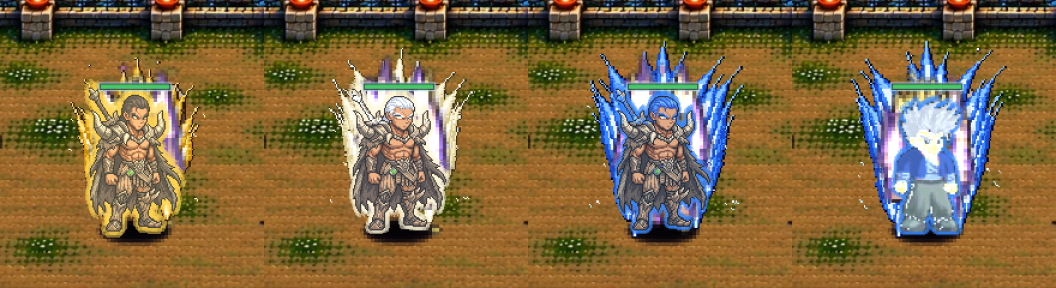
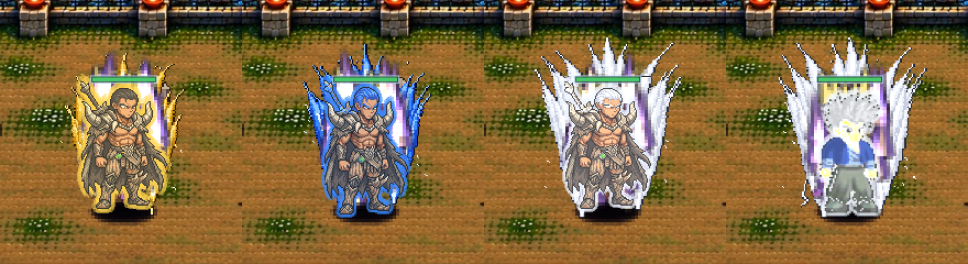
GRIMGE: Aufstiegsstufen order gold → blue → white god mode (user correction; white stage tallest with dense lightning, call-out GOTTMODUS); Säuregerüst back to its previous look (user preferred it); manifestation sheets lean into released techniques and the peak; silhouette test measures drawn sheet

diff --git a/test_runtime.js b/test_runtime.js
@@ -2524,7 +2524,7 @@ assert(game.inputMode === 'desktop', 'Keyboard input switches a hybrid device ba
   const buff = await import('./public/src/buff_forms.js');
   const P = game.player; P.x = 400; P.z = .5; P.facing = 1; game.battlefield.placeOnSurface(P);
   // A measuring context: counts drawn shapes, tracks how far right (forward) they reach and rejects negative radii.
-  const probe = () => { const m = { shapes: 0, maxX: -1e9 }; const ctx = new Proxy({}, { get: (t, k) => k === 'ellipse' ? (x, y, rx, ry) => { if (rx < 0 || ry < 0) throw new Error('IndexSizeError'); m.maxX = Math.max(m.maxX, x + rx); } : (k === 'moveTo' || k === 'lineTo') ? (x) => { m.maxX = Math.max(m.maxX, x); } : (k === 'fill' || k === 'stroke' || k === 'fillRect') ? () => { m.shapes++; } : (k === 'canvas' ? undefined : () => {}), set: () => true }); return { ctx, m }; };
+  const probe = () => { const m = { shapes: 0, maxX: -1e9 }; const ctx = new Proxy({}, { get: (t, k) => k === 'ellipse' ? (x, y, rx, ry) => { if (rx < 0 || ry < 0) throw new Error('IndexSizeError'); m.maxX = Math.max(m.maxX, x + rx); } : (k === 'moveTo' || k === 'lineTo') ? (x) => { m.maxX = Math.max(m.maxX, x); } : (k === 'fill' || k === 'stroke' || k === 'fillRect') ? () => { m.shapes++; } : k === 'drawImage' ? (...a) => { if (a.length >= 9 && a[5] !== 0) { m.shapes++; m.maxX = Math.max(m.maxX, a[5] + a[7]); } } : (k === 'canvas' ? undefined : () => {}), set: () => true }); return { ctx, m }; };
   const draw = (state) => { const { ctx, m } = probe(); const b = P.buffForm; Object.assign(b, { act: 0, guardK: 0, sprintK: 0, peakAt: null, lastTech: null, grabAt: null, landAt: null }, state); buff.renderBuffManifestation(ctx, P, P.y, 'back'); buff.renderBuffManifestation(ctx, P, P.y, 'front'); return m; };
   let ok = true; let forward = 0; let generic = [];
   for (const id of Object.keys(buff.BUFF_FORMS)) {
@@ -2535,7 +2535,7 @@ assert(game.inputMode === 'desktop', 'Keyboard input switches a hybrid device ba
     if (act.maxX > idle.maxX + 8 || peak.maxX > idle.maxX + 8) forward++;
   }
   assert(ok, 'All Arcane States draw an idle, action and peak silhouette ' + generic.join());
-  assert(forward >= 12, 'Attacks and the peak reshape the silhouettes forward (' + forward + ' of 15)');
+  assert(forward >= 12, 'Attacks and the peak reshape the silhouettes forward (' + forward + ' of ' + Object.keys(buff.BUFF_FORMS).length + '; drawn sheets lean into the strike)');
   // V3.2 Morphologie-Overhaul: every form has its own profile and (T01–T36) its own renderer.
   const vfx = await import('./public/src/buff_vfx.js');
   const forms42 = Object.values(buff.BUFF_FORMS);

diff --git a/public/src/entities.js b/public/src/entities.js
@@ -488,10 +488,10 @@ export class Player extends GroundEntity {
     }
     if (this.focusTransformTimer <= 0) { this.focusTransformPower = 1; this._focusT = 0; this.focusStage = 0; }
     else {
-      // Aufstiegsstufen (user, 27 Oct 2026, after example sprites 29–32): stage 2 after 10 s, stage 3 after 20 s.
+      // Aufstiegsstufen (user, 27 Oct 2026, after example sprites 29–32): gold → blue (10 s) → white god mode (20 s).
       this._focusT = (this._focusT ?? 0) + dt; const stage = 1 + (this._focusT >= ASCEND_STAGE_TIME ? 1 : 0) + (this._focusT >= ASCEND_STAGE_TIME * 2 ? 1 : 0);
       if (stage !== this.focusStage) {
-        if (this.focusStage) { combat.spawnShockwave(this.x, this.y - 40, 70 + stage * 14, stage === 3 ? '#5a9cff' : '#fff2b0'); combat.shakeCamera(4 + stage, .15); window.gameWorld?.showAnnouncement?.(stage === 3 ? 'AUFSTIEG III' : 'AUFSTIEG II', 1.2); }
+        if (this.focusStage) { combat.spawnShockwave(this.x, this.y - 40, 70 + stage * 14, stage === 3 ? '#ffffff' : '#5a9cff'); combat.shakeCamera(4 + stage, .15); window.gameWorld?.showAnnouncement?.(stage === 3 ? 'AUFSTIEG III — GOTTMODUS' : 'AUFSTIEG II', 1.2); }
         this.focusStage = stage; this.focusTransformPower = ASCEND_POWER[stage - 1];
       }
     }
@@ -2334,7 +2334,7 @@ export class Player extends GroundEntity {
     if (sc) return sc;
     if (this.ninefoldTimer > 0) return { edge: 'rgba(255,110,20,1)', inner: 'rgba(255,170,60,1)', fade: Math.min(1, this.ninefoldTimer * 2) };
     if (this.eidolonTimer > 0) return { edge: 'rgba(150,80,255,1)', inner: 'rgba(200,150,255,1)', fade: Math.min(1, this.eidolonTimer * 2) };
-    if (this.focusTransformTimer > 0) { const st = this.focusStage || 1; return st === 3 ? { edge: 'rgba(58,138,255,1)', inner: 'rgba(168,208,255,1)', fade: Math.min(1, this.focusTransformTimer * 2) } : st === 2 ? { edge: 'rgba(255,248,216,1)', inner: 'rgba(255,255,255,1)', fade: Math.min(1, this.focusTransformTimer * 2) } : { edge: 'rgba(255,214,80,1)', inner: 'rgba(255,240,170,1)', fade: Math.min(1, this.focusTransformTimer * 2) }; }
+    if (this.focusTransformTimer > 0) { const st = this.focusStage || 1; return st === 2 ? { edge: 'rgba(58,138,255,1)', inner: 'rgba(168,208,255,1)', fade: Math.min(1, this.focusTransformTimer * 2) } : st === 3 ? { edge: 'rgba(240,246,255,1)', inner: 'rgba(255,255,255,1)', fade: Math.min(1, this.focusTransformTimer * 2) } : { edge: 'rgba(255,214,80,1)', inner: 'rgba(255,240,170,1)', fade: Math.min(1, this.focusTransformTimer * 2) }; }
     return null;
   }
 

diff --git a/public/src/buff_vfx.js b/public/src/buff_vfx.js
@@ -818,7 +818,9 @@ export function renderManifestation(ctx, player, form, layer, renderY, fade = 1,
   if (spellSheetReady(sheetName) && !(morph && player.isGuarding)) {
     const s0 = sockets(player, renderY); const p0 = poseOf(player); const fr = Math.floor((player.animTime ?? 0) * 10);
     const n = SPELL_SPRITE_SHEETS[sheetName]?.frames ?? 1;
-    drawSpellSprite(ctx, sheetName, fr % n, s0.chest[0], s0.chest[1], { anchor: 'center', flip: (player.facing || 1) < 0, alpha: fade, scale: 1 + .15 * Math.max(peak, p0.full ? .6 : 0) });
+    // The manifestation leans into a released technique and further at the peak (it follows the strike).
+    const lean = (p0.tech ? 12 * p0.tech.k : 0) + 10 * Math.max(peak, p0.full ? .6 : 0);
+    drawSpellSprite(ctx, sheetName, fr % n, s0.chest[0] + s0.f * lean, s0.chest[1], { anchor: 'center', flip: (player.facing || 1) < 0, alpha: fade, scale: 1 + .15 * Math.max(peak, p0.full ? .6 : 0) });
     FORM_EXTRAS[form.id]?.(ctx, s0, { ...p0, t: player.animTime ?? 0, player }, form, layer, fade);
     if (!SHEET_AND_RENDERER.has(form.id)) return;
   }

diff --git a/public/src/form_recolors.js b/public/src/form_recolors.js
@@ -113,9 +113,9 @@ registerFormCloak('A10', '#3ad0e0', '#a8f6ff');
 // A11 Drachengeist: no recolour (the dragon and the blaze are attachments), an ember-orange aura.
 registerFormCloak('A11', '#ff5a1f', '#ffd27a');
 
-// Aufstiegsstufen (Focus transformation, user 27 Oct 2026): stage 2 turns the hair white, stage 3 blue. Only for the
+// Aufstiegsstufen (Focus transformation, user 27 Oct 2026): stage 2 turns the hair blue, stage 3 (god mode) white. Only for the
 // tailored base hero(es) — the dark, non-skin pixels in the top quarter are the hair there (light horns stay).
-const HAIR = { 2: ramp('#8a92a8', '#c4ccdc', '#eef2fa', '#ffffff'), 3: ramp('#14308a', '#2a62d8', '#5a9cff', '#b0d4ff') };
+const HAIR = { 2: ramp('#14308a', '#2a62d8', '#5a9cff', '#b0d4ff'), 3: ramp('#8a92a8', '#c4ccdc', '#eef2fa', '#ffffff') };
 const hairMemo = {};
 export function hairRecolor(stage, heroKey) {
   if (!HAIR[stage] || !TAILORED_HEROES.includes(heroKey)) return null;

diff --git a/public/src/spell_sprite_sheets.js b/public/src/spell_sprite_sheets.js
@@ -1809,24 +1809,6 @@ export const SPELL_SPRITE_SHEETS = Object.freeze({
   "hd": true,
   "anchor": "center"
  },
- "as_T37_back": {
-  "name": "as_T37_back",
-  "w": 64,
-  "h": 64,
-  "frames": 8,
-  "res": 2,
-  "hd": true,
-  "anchor": "center"
- },
- "as_T37_front": {
-  "name": "as_T37_front",
-  "w": 64,
-  "h": 64,
-  "frames": 8,
-  "res": 2,
-  "hd": true,
-  "anchor": "center"
- },
  "as_A05_back": {
   "name": "as_A05_back",
   "w": 64,

diff --git a/docs/visual_pilots/README.md b/docs/visual_pilots/README.md
@@ -446,9 +446,9 @@ Nach dem Beispiel-Sprite 20, eigene Umsetzung. Neuer Arcane State (Feuer, Boss-D
 
 Nach den Beispiel-Sprites 29–32, eigene Umsetzung. Die Fokus-Verwandlung (Ascendant) steigt jetzt in drei Stufen auf:
 - **Stufe 1** sofort: goldene Energieaura mit Blitzfunken, goldene Kontur.
-- **Stufe 2** nach 10 s: weiß-goldene, höhere Aura, weiße Kontur, **weiße Haare**. Kraft ×1,15.
-- **Stufe 3** nach 20 s: blaue Flammenaura, blaue Kontur, **blaue Haare**. Kraft ×1,3.
-- Jeder Aufstieg gibt eine Druckwelle, ein Kamerawackeln und die Ansage „AUFSTIEG II“ bzw. „AUFSTIEG III“.
+- **Stufe 2** nach 10 s: blaue Flammenaura, blaue Kontur, **blaue Haare**. Kraft ×1,15.
+- **Stufe 3 (Gottmodus)** nach 20 s: die höchste, hellste weiße Aura mit dichten Blitzen, weiße Kontur, **weiße Haare**. Kraft ×1,3. (Reihenfolge vom User korrigiert: gelb, blau, dann weiß als Gottmodus.)
+- Jeder Aufstieg gibt eine Druckwelle, ein Kamerawackeln und die Ansage „AUFSTIEG II“ bzw. „AUFSTIEG III — GOTTMODUS“.
 - Die Haarfarbe gibt es nur für Thesen (`TAILORED_HEROES`), weil die Haare dort sicher erkannt werden. Alle anderen Helden bekommen Aura und Kontur.
 
 - `v43_aufstiegsstufen.png` (Thesen Stufe 1, 2, 3 · Nyx Stufe 3)
@@ -460,10 +460,11 @@ Nach den Beispiel-Sprites 29–32, eigene Umsetzung. Die Fokus-Verwandlung (Asce
 - **T23 Nullfeldträger:** drei schwarze Negativräume mit Säurerand und Verzerrungsringen, Partikel werden hineingezogen.
 - **T24 Fadenregent:** ein goldenes Führungskreuz über dem Rücken, zwei flache Schatten-Marionetten an Lichtfäden schwingen an den Seiten.
 - **T35 Kältestillstand:** gebrochene Frostglasbänder um Rücken und Hüfte, Eisflocken stehen still in der Luft.
-- **T37 Säuregerüst:** ein Rückengestell mit sechseckigen Dosierkammern (blubbernde Säure), Glasrohre über die Schultern, Tropfen.
+- **T37 Säuregerüst:** wieder der vorherige Look (dem User gefiel er besser).
 - **A05 Dehnleib:** große, verschnörkelte Dampfwolken steigen um den Körper auf.
 - **A06 Beben:** ein Netz aus Glasrissen hinter dem Helden, schwebende Splitter.
 - **A08 Sprengleib:** Rauchsäulen, ein Funkenring und glühende Sprengmarken.
 - Bei A05, A06 und A08 bleibt der eigene Look, der auf die Angriffe reagiert (Gummiarme, Faustrisse, Faustrauch). Das Sheet kommt dazu (`SHEET_AND_RENDERER`).
 
 - `v44_arcane_states_r2.png`
+- Nachtrag: Die Sheets der Formen holen beim Angriff nach vorn aus (bis 12 px, bei voller Ladung mehr). Der Silhouetten-Test misst jetzt auch gezeichnete Sheets.
